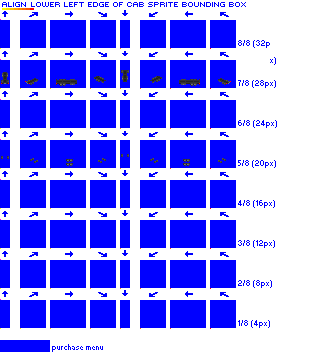
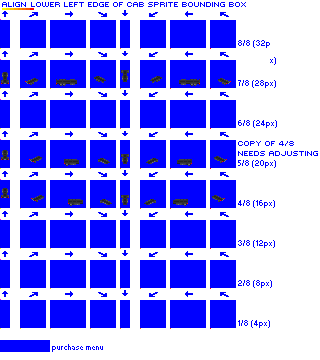
Change: add the Red Lake Grizzly truck (missing some body types currently)

diff --git a/src/pixel_generator/gestalts/common.py b/src/pixel_generator/gestalts/common.py
@@ -195,13 +195,21 @@ standard_sprite_crops = {
 cab_offsets = {
     '8_8': ((1, -25), (13, -22), (26, -16), (13, -16), (1, -16), (2, -16), (2, -16), (2, -22)), # unchecked, may be wrong
     '7_8': ((1, -25), (13, -22), (26, -16), (13, -16), (1, -16), (2, -16), (2, -16), (2, -22)),
+    '6_8': ((1, -25), (13, -22), (26, -16), (13, -16), (1, -16), (2, -16), (2, -16), (2, -22)), # unchecked, may be wrong
+    '5_8': ((1, -25), (13, -22), (26, -16), (13, -16), (1, -16), (2, -16), (2, -16), (2, -22)), # unchecked, may be wrong
     '4_8': ((1, -25), (13, -22), (26, -16), (13, -16), (1, -16), (2, -16), (2, -16), (2, -22)), # unchecked, may be wrong
+    '3_8': ((1, -25), (13, -22), (26, -16), (13, -16), (1, -16), (2, -16), (2, -16), (2, -22)), # unchecked, may be wrong
+    '2_8': ((1, -25), (13, -22), (26, -16), (13, -16), (1, -16), (2, -16), (2, -16), (2, -22)), # unchecked, may be wrong
 }
 # x, y tuples of offsets for each body angle when compositing to trucks (unlikely to be used for trailers).
 # length is truck total length, not body length
 truck_body_offsets = {
     '8_8': ((0, -22), (-4, -27), (-8, -28), (-4, -31), (0, -31), (4, -31), (8, -28), (4, -27)), # unchecked, may be wrong
     '7_8': ((0, -22), (-4, -27), (-8, -28), (-4, -31), (0, -31), (4, -31), (8, -28), (4, -27)),
+    '6_8': ((0, -22), (-4, -27), (-8, -28), (-4, -31), (0, -31), (4, -31), (8, -28), (4, -27)), # unchecked, may be wrong
+    '5_8': ((0, -22), (-4, -27), (-8, -28), (-4, -31), (0, -31), (4, -31), (8, -28), (4, -27)), # unchecked, may be wrong
     '4_8': ((0, -22), (-4, -27), (-8, -28), (-4, -31), (0, -31), (4, -31), (8, -28), (4, -27)), # unchecked, may be wrong
+    '3_8': ((0, -22), (-4, -27), (-8, -28), (-4, -31), (0, -31), (4, -31), (8, -28), (4, -27)), # unchecked, may be wrong
+    '2_8': ((0, -22), (-4, -27), (-8, -28), (-4, -31), (0, -31), (4, -31), (8, -28), (4, -27)), # unchecked, may be wrong
 }
 

diff --git a/src/global_constants.py b/src/global_constants.py
@@ -157,7 +157,6 @@ vehicles_turned_off = (
     'pocomoke_wallman',
     'red_lake_cannonball',
     'red_lake_general',
-    'red_lake_grizzly',
     'reifsnider_281',
     'rothrock_CBE',
     'rothrock_R102',
